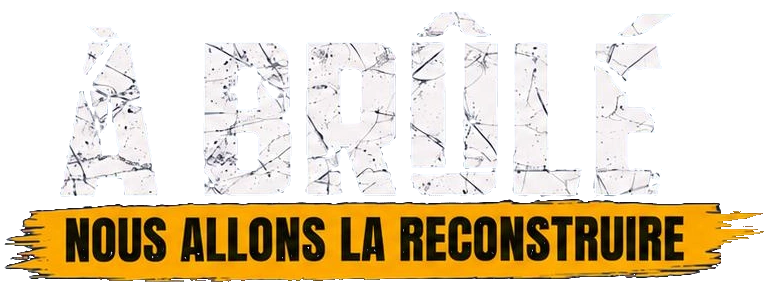
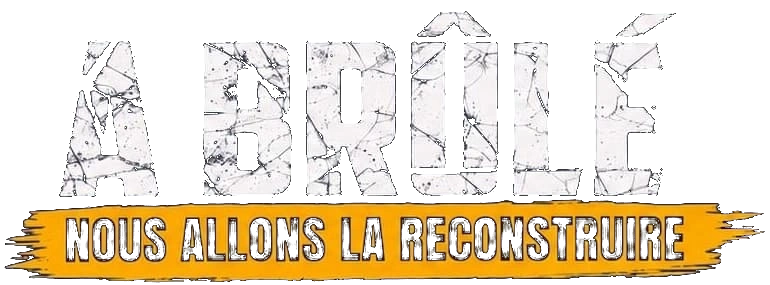
fix: corriger le titre hero « A brûlé » sans accent sur A.
Utilise une source dédiée pour l’illustration du titre et régénère hero-title.webp.

diff --git a/components/Hero.tsx b/components/Hero.tsx
@@ -13,7 +13,7 @@ export function Hero() {
             Télé École a brûlé. Nous allons la reconstruire.
           </h1>
           <Image
-            src="/campaign/hero-title.webp"
+            src="/campaign/hero-title.webp?v=2"
             alt=""
             aria-hidden="true"
             width={770}
